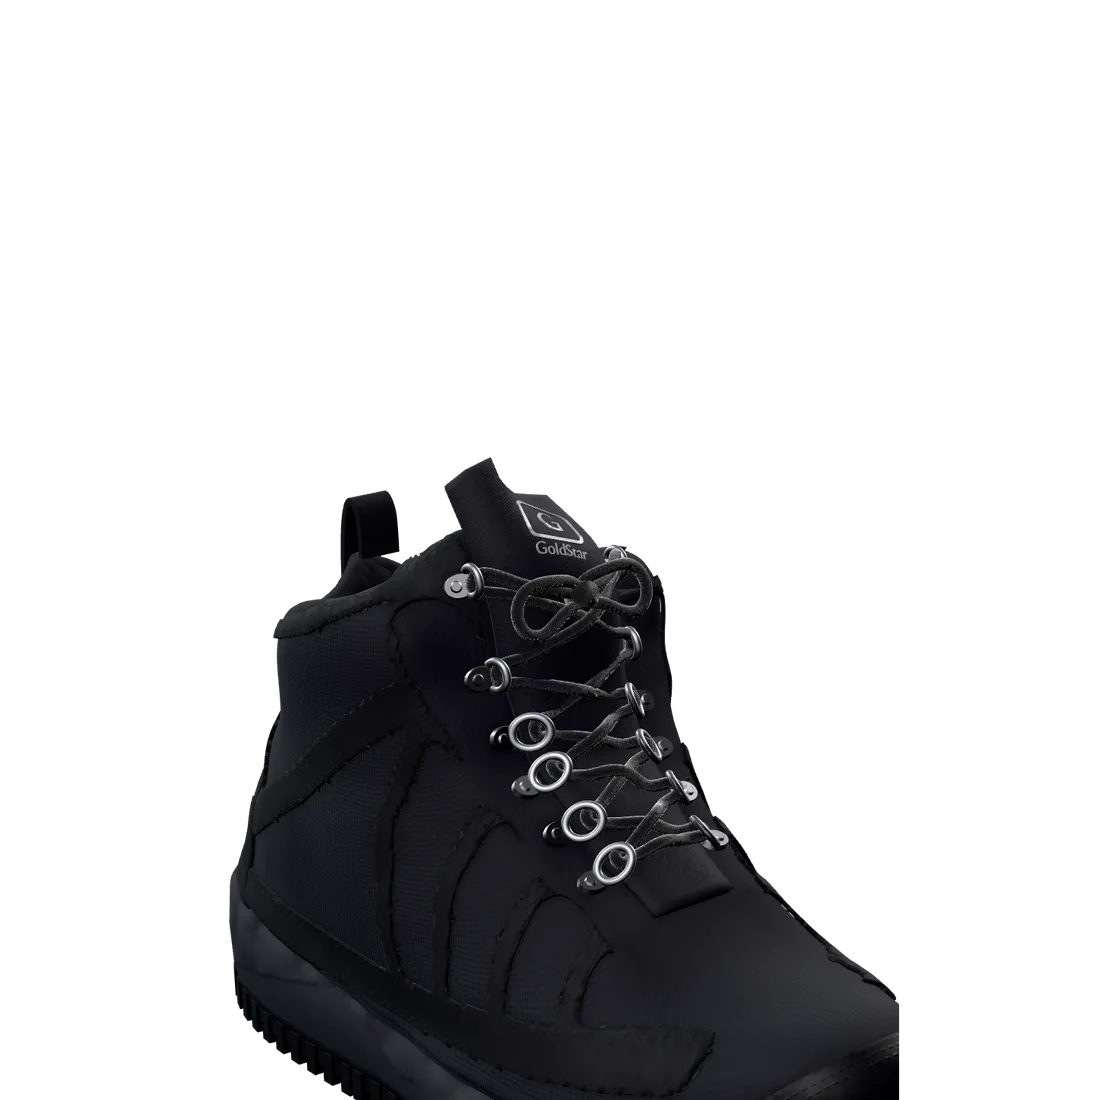
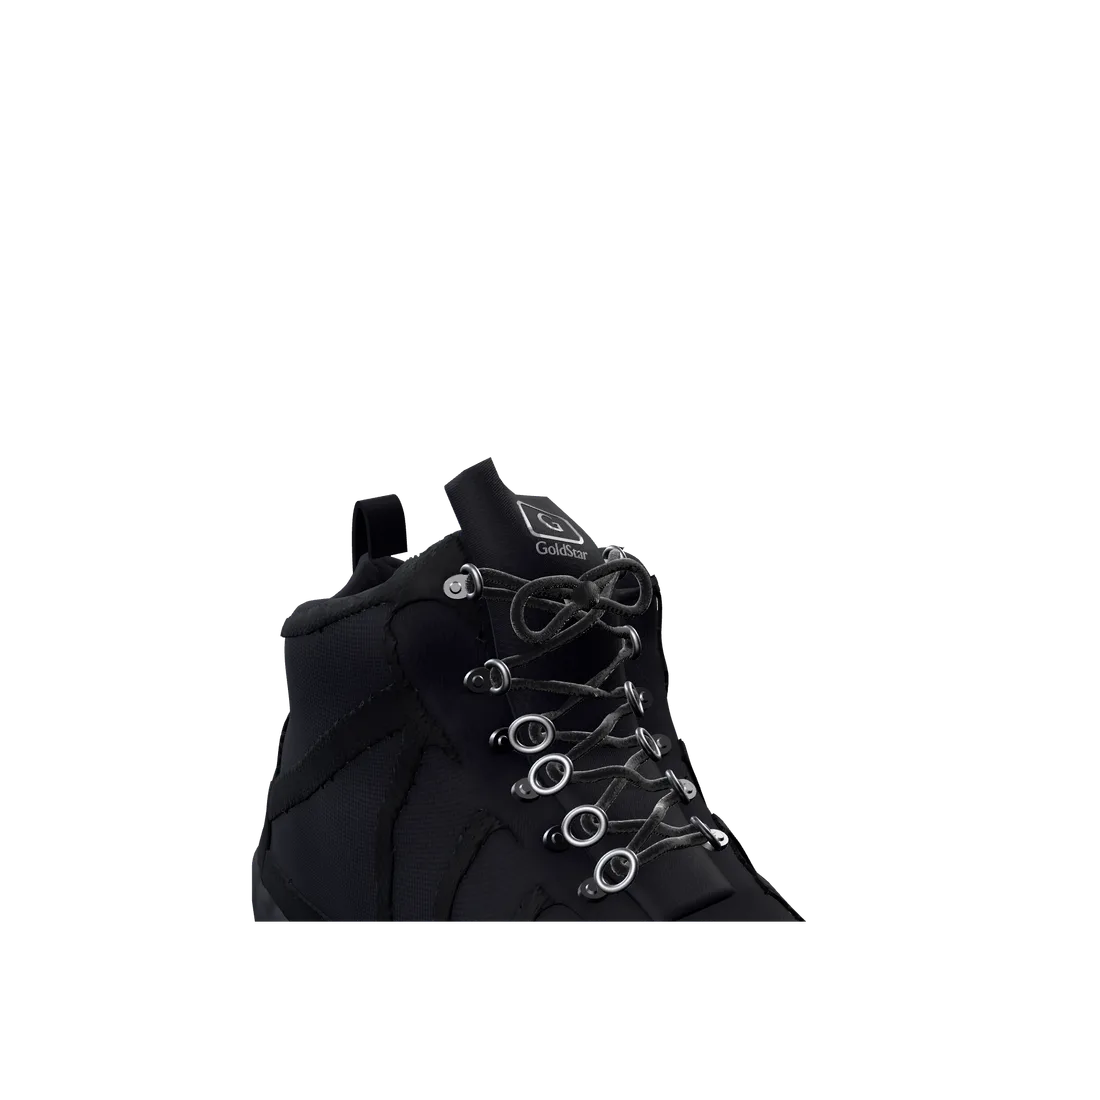
G10 hero intro: macro posters with room for the toe overflow, reduced-motion captions on phones

diff --git a/client/src/story/Sections.jsx b/client/src/story/Sections.jsx
@@ -197,7 +197,8 @@ function Sparkles() {
 // under the live boot and crossfades into it when the canvas is ready (the crossfade starts only once the canvas
 // has mounted its first frame, onReady in Stage.jsx).
 //  - scrub mode: the macro close-up at T=0 (key 0: box 'macro', fill 0.9, R 0.72 on the tongue logo). The render is a
-//    square of 2x the fill square (2 * 0.9 * min(box w, box h)), centred on the box: 100.8vw / 133.2vh on desktop.
+//    square of 2x (desktop) / 2.8x (phone, where the close-up reaches further below the box) the fill square
+//    (k * 0.9 * min(box w, box h)), centred on the box: 100.8vw / 133.2vh desktop, 236.9vw / 100.8vh phone.
 //  - flow mode (reduced motion, no WebGL): the full hero pose (hero key: fill 0.9; the render is 1.3x / 1.15x that
 //    square). Devices without WebGL keep it as the hero image.
 function HeroPoster({ flow }) {
@@ -205,7 +206,7 @@ function HeroPoster({ flow }) {
   const reduced = useStoryUi((s) => s.reduced);
   const size = flow
     ? { desktop: 'min(65.52vw, 86.58vh)', phone: 'min(97.29vw, 41.4vh)', phoneTop: '32vh' }
-    : { desktop: 'min(100.8vw, 133.2vh)', phone: 'min(169.2vw, 72vh)', phoneTop: '20vh' };
+    : { desktop: 'min(100.8vw, 133.2vh)', phone: 'min(236.9vw, 100.8vh)', phoneTop: '20vh' };
   const src = flow ? ['/img/hero/boot-desktop.webp', '/img/hero/boot-phone.webp'] : ['/img/hero/macro-desktop.webp', '/img/hero/macro-phone.webp'];
   return (
     <Box
@@ -382,7 +383,7 @@ export function HeroSection({ product, flow }) {
   const p = pal('hero');
   const from = product?.colourways?.length ? Math.min(...product.colourways.map((c) => c.price)) : null;
   return (
-    <Panel id="hero" side="left" phoneTop="55%" extra={<><HeroPoster flow={flow} /><Sparkles />{flow ? null : <><IntroCaptions ink={p.ink} /><IntroRail ink={p.ink} /></>}</>}>
+    <Panel id="hero" side="left" phoneTop={flow ? 'calc(var(--stage-h, 100svh) * 0.55)' : '55%'} sx={flow ? { '@media (max-width:899.95px)': { height: 'auto', minHeight: 'calc(var(--stage-h, 100svh) + 110px)' } } : undefined} extra={<><HeroPoster flow={flow} /><Sparkles />{flow ? null : <><IntroCaptions ink={p.ink} /><IntroRail ink={p.ink} /></>}</>}>
       <Eyebrow>Goldstar Nepal · G10-401</Eyebrow>
       <Headline component="h1" id="story-hero-h" sx={{ fontSize: { xs: 'clamp(40px, 12vw, 54px)', md: 'clamp(64px, 7vw, 120px)' } }}>
         Explore further.
